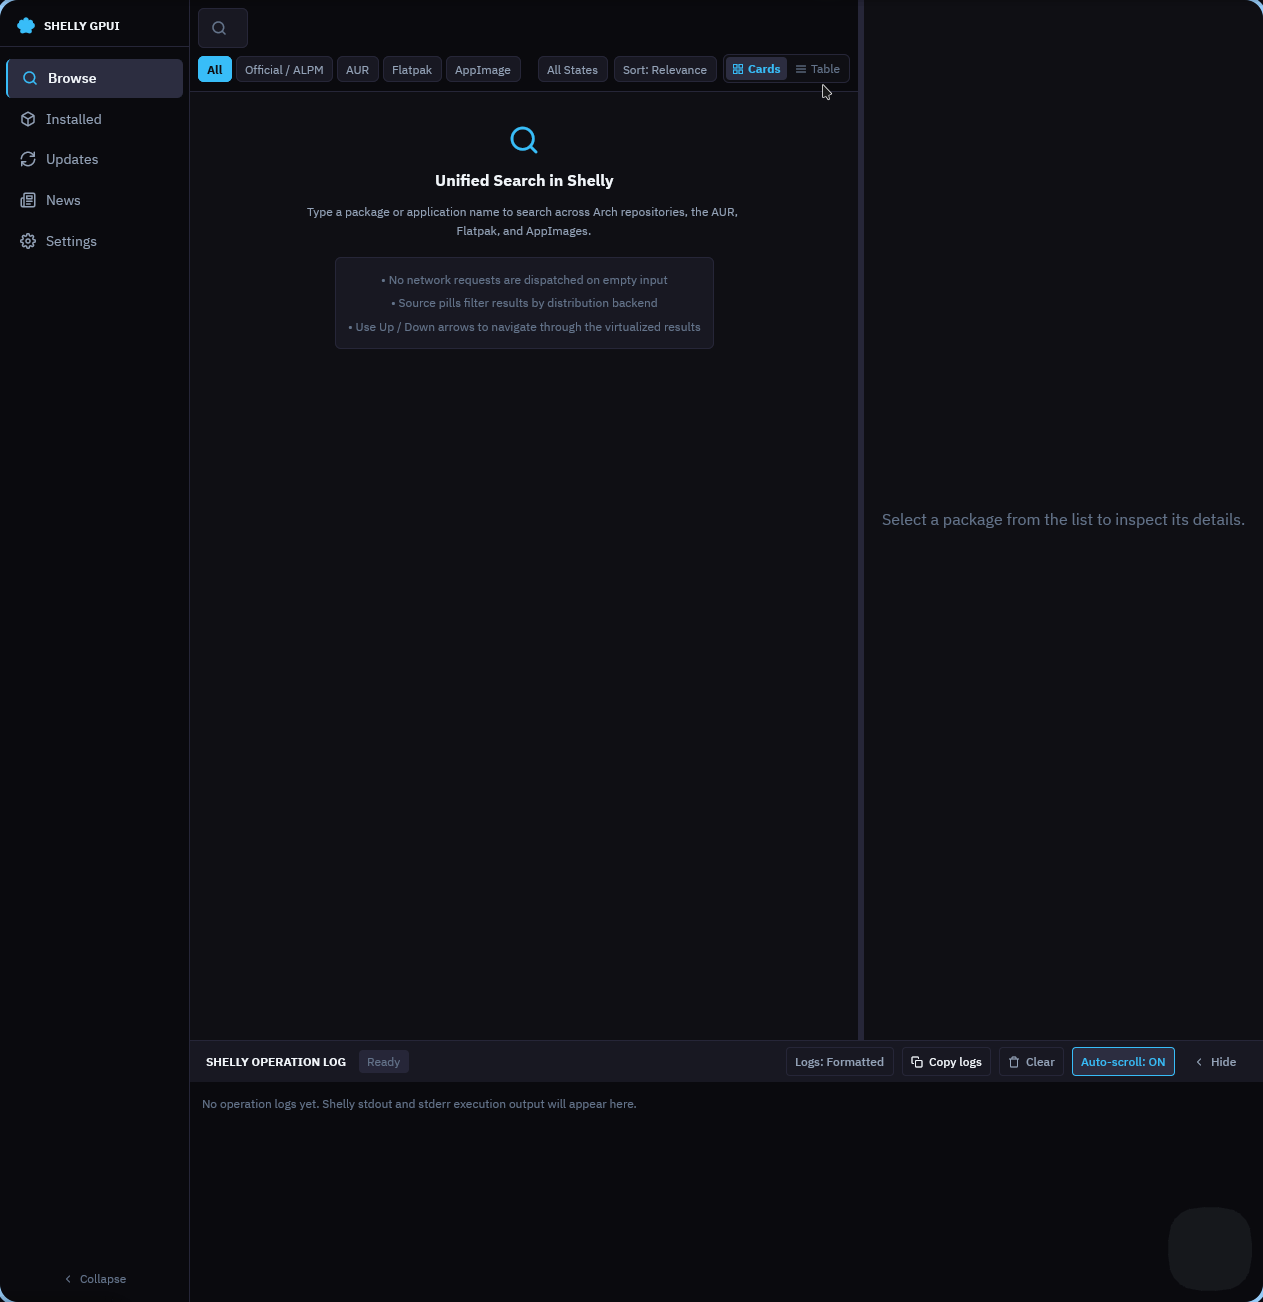
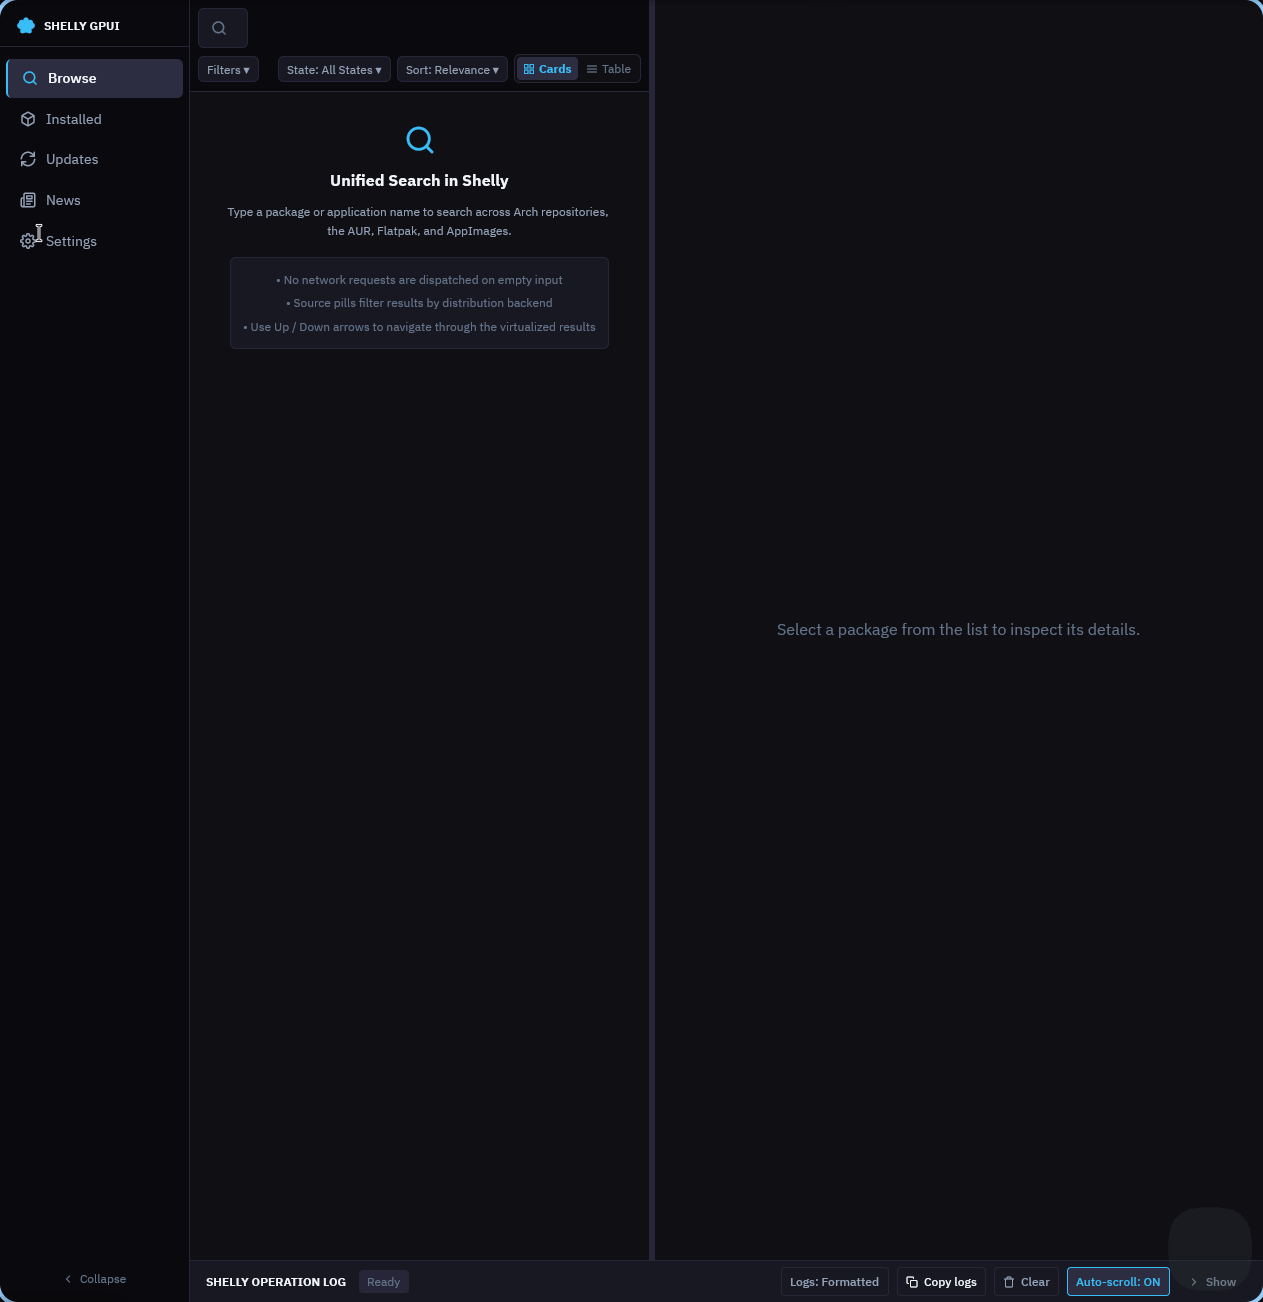
fix(ui): enforce full-width layout for search input in Query Workbench

diff --git a/Shelly.Ui.Gpui/src/components/query_workbench.rs b/Shelly.Ui.Gpui/src/components/query_workbench.rs
@@ -113,11 +113,12 @@ impl QueryWorkbench {
         let breakpoint = WorkbenchBreakpoint::from_width(props.list_pane_width);
 
         // ── 1. Row 1: Dominant Full-Width Search Input ────────────────────────
+        let input_width = (props.list_pane_width - 16.0).max(200.0);
         let row1 = div()
-            .w_full()
-            .flex()
-            .items_center()
-            .child(div().w_full().flex_1().child(props.search_input.clone()));
+            .id("workbench_row1_search")
+            .w(px(input_width))
+            .h(px(40.0))
+            .child(props.search_input.clone());
 
         // ── 2. Filters Popover Setup ──────────────────────────────────────────
         let on_toggle_menu = props.on_toggle_menu.clone();
@@ -974,6 +975,8 @@ impl QueryWorkbench {
         // ── 9. Final Container Assembly ───────────────────────────────────────
         div()
             .id("query_workbench_container")
+            .w(px(props.list_pane_width))
+            .w_full()
             .flex()
             .flex_col()
             .gap(px(6.0))

diff --git a/Shelly.Ui.Gpui/src/components/search_input.rs b/Shelly.Ui.Gpui/src/components/search_input.rs
@@ -779,7 +779,6 @@ impl Render for SearchInputView {
             .h(px(40.0))
             .w_full()
             .flex()
-            .flex_1()
             .items_center()
             .gap(px(8.0))
             .px(px(12.0))
